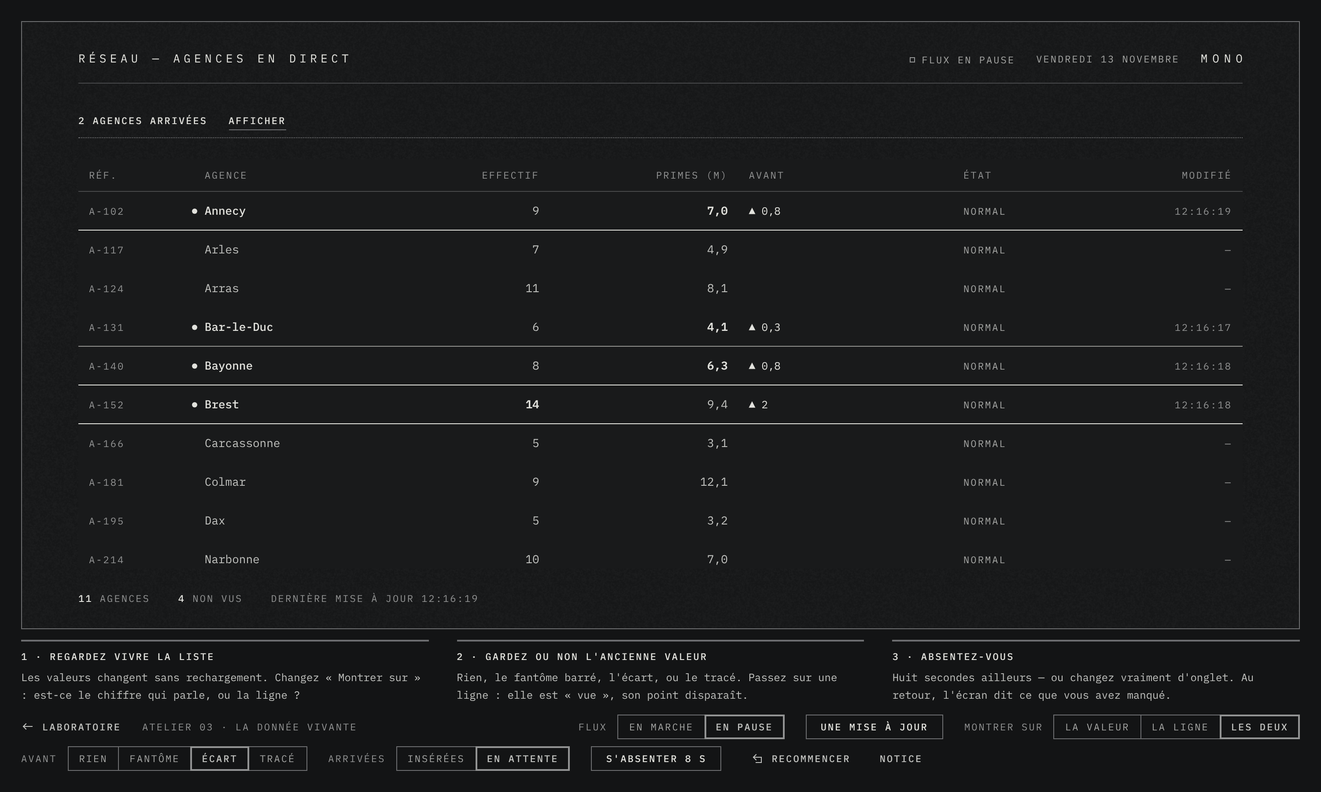
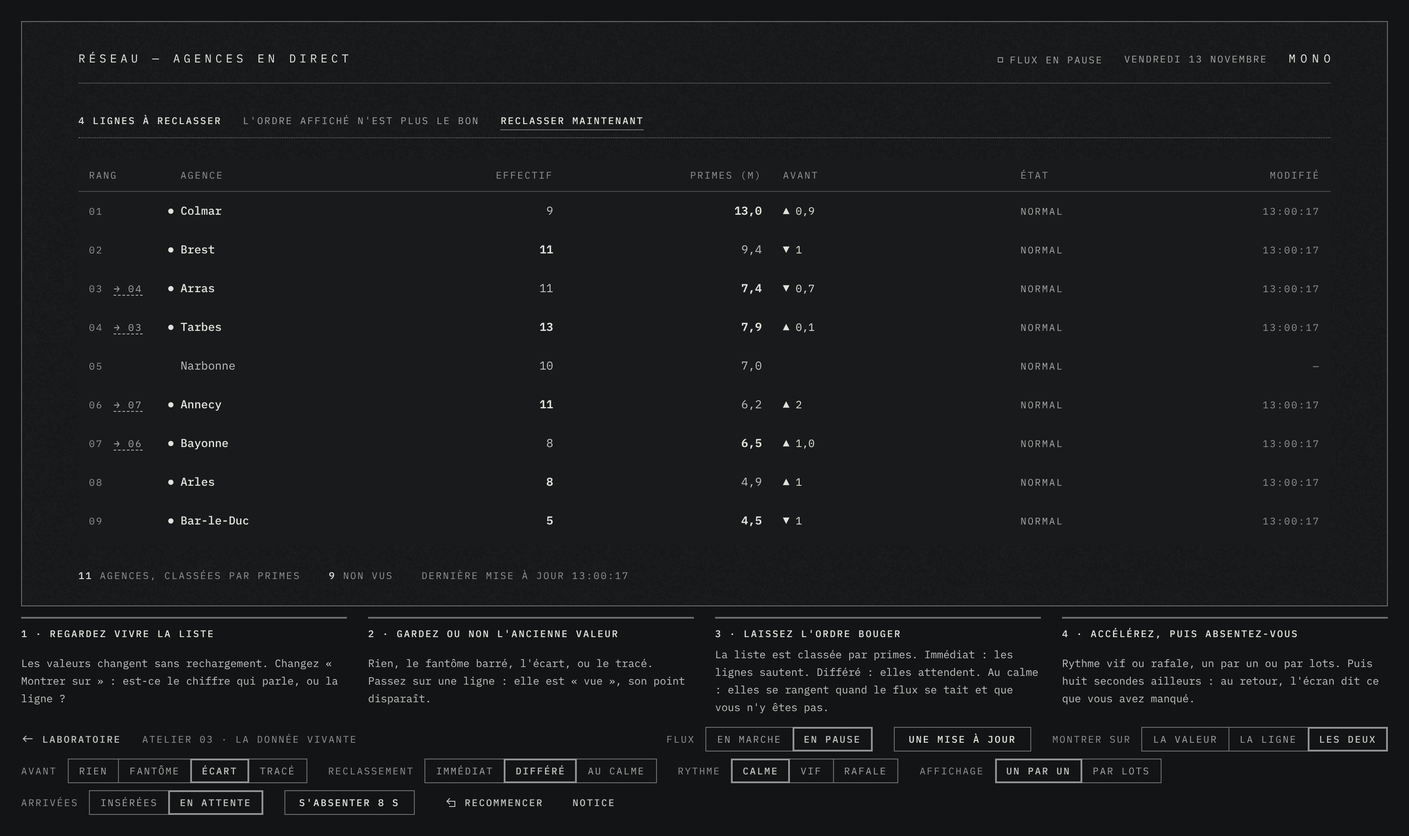
Laboratoire, expérience 03 : l'ordre et le rythme (D-101)
Reclassement immédiat, différé ou au calme ; rang à venir et mouvement de rang ;
cadences vive et en rafale ; affichage par lots, écart cumulé depuis la dernière
vue, soulignement limité.

Claude-Session: https://claude.ai/code/session_01Jzhjh4Bm92CMpkoPPaRiQr

diff --git a/catalogue/assets/labo.js b/catalogue/assets/labo.js
@@ -103,46 +103,75 @@
 
   // ===== Expérience 03 — la donnée vivante ===================================
   (() => { const stage = document.getElementById('x3'); if (!stage) return;
-    const box = $('.x-live', stage), body = $('tbody', stage), read = $('.x-read', stage), pulse = $('.x-pulse', stage), arrive = $('[data-arrive]', stage), back = $('[data-back]', stage), away = $('.x-away', stage), title0 = document.title;
-    const fr = (v) => v.toFixed(1).replace('.', ','), hms = () => new Date().toLocaleTimeString('fr-FR'), ST = ['Normal', 'À surveiller', 'Bloqué'];
+    const box = $('.x-live', stage), body = $('tbody', stage), read = $('.x-read', stage), pulse = $('.x-pulse', stage), arrive = $('[data-arrive]', stage), back = $('[data-back]', stage), reorderBar = $('[data-reorder]', stage), away = $('.x-away', stage), title0 = document.title;
+    const fr = (v) => v.toFixed(1).replace('.', ','), hms = () => new Date().toLocaleTimeString('fr-FR'), ST = ['Normal', 'À surveiller', 'Bloqué'], cfg = (k) => stage.dataset[k];
     const SEED = [['A-102', 'Annecy', 9, 6.2], ['A-117', 'Arles', 7, 4.9], ['A-124', 'Arras', 11, 8.1], ['A-131', 'Bar-le-Duc', 6, 3.8], ['A-140', 'Bayonne', 8, 5.5], ['A-152', 'Brest', 12, 9.4], ['A-166', 'Carcassonne', 5, 3.1], ['A-181', 'Colmar', 9, 12.1], ['A-195', 'Dax', 5, 3.2], ['A-214', 'Narbonne', 10, 7.0], ['A-226', 'Tarbes', 14, 7.8]];
     const POOL = [['A-262', 'Vizille', 4, 2.4], ['A-270', 'Valence', 8, 5.9], ['A-281', 'Vannes', 6, 4.4], ['A-290', 'Lorient', 7, 5.1], ['A-298', 'Chartres', 9, 6.6]];
-    let rows = [], queue = [], timer = null, gone = false, awayCount = { v: 0, n: 0 }, last = null, pool = [];
+    let rows = [], queue = [], timer = null, flushTimer = null, calm = null, gone = false, awayCount = { v: 0, n: 0 }, last = null, pool = [], dirty = new Map(), hover = false, lot = '';
     const digits = (el, txt, dir) => { const old = el.textContent; el.innerHTML = [...txt].map((c, i) => `<span${dir && !still && c !== old.padStart(txt.length, ' ')[i] ? ` style="animation: x-${dir} 260ms ease-out 1 both"` : ''}>${c}</span>`).join(''); };
     const spark = (h) => { const lo = Math.min(...h), hi = Math.max(...h), W = 72, H = 14, pts = h.map((v, i) => [i * W / Math.max(1, h.length - 1), H - (hi === lo ? H / 2 : (v - lo) / (hi - lo) * H)]); const [x, y] = pts.at(-1);
       return `<svg width="${W + 4}" height="${H + 4}" viewBox="-2 -2 ${W + 4} ${H + 4}" aria-hidden="true"><polyline points="${pts.map((p) => p.join(',')).join(' ')}"></polyline><rect x="${x - 1.5}" y="${y - 1.5}" width="3" height="3"></rect></svg>`; };
-    // Ce que l'on garde de l'ancienne valeur : rien, le fantôme (barré, un temps), l'écart (sens et montant), ou le tracé.
-    const evo = (r) => { const m = stage.dataset.before, c = r.change; const td = $('.x-evo', r.tr); if (m === 'trace') { td.innerHTML = spark(r.hist); return; } if (!c || m === 'rien') { td.innerHTML = ''; return; }
-      const d = c.now - c.old; td.innerHTML = m === 'fantome' ? `<s>${c.txt}</s>` : `<span class="d">${d > 0 ? '▲' : '▼'} ${c.f === 'pr' ? fr(Math.abs(d)) : Math.abs(d)}</span>`;
-      clearTimeout(r.ghost); if (m === 'fantome') r.ghost = setTimeout(() => { if (stage.dataset.before === 'fantome') td.innerHTML = ''; }, 9000); };
-    const make = (d, isNew) => { const r = { ref: d[0], name: d[1], eff: d[2], pr: d[3], st: 0, hist: [d[3]], change: null }; const tr = document.createElement('tr'); r.tr = tr;
-      tr.innerHTML = `<td class="ref">${r.ref}</td><td class="nm"><span>${r.name}</span></td><td class="n"><span class="x-num" data-f="eff"></span></td><td class="n"><span class="x-num" data-f="pr"></span></td><td class="x-evo"></td><td class="st" data-st="0">${ST[0]}</td><td class="t n">${isNew ? hms() : '—'}</td>`;
-      digits($('[data-f="eff"]', tr), String(r.eff)); digits($('[data-f="pr"]', tr), fr(r.pr)); tr.addEventListener('pointerenter', () => { tr.classList.remove('is-unseen', 'is-since'); report(); }); if (isNew) tr.classList.add('is-new', 'is-unseen'); if (stage.dataset.before === 'trace') $('.x-evo', tr).innerHTML = spark(r.hist); return r; };
-    const report = () => { const u = rows.filter((r) => r.tr.classList.contains('is-unseen')).length; read.innerHTML = `<span><b>${rows.length}</b> agences</span><span><b>${u}</b> non vu${u > 1 ? 's' : ''}</span><span>Dernière mise à jour ${last || '—'}</span>`;
+    // Ce que l'on garde de l'ancienne valeur : rien, le fantôme (barré, un temps), l'écart, ou le tracé.
+    // L'écart est CUMULÉ depuis la dernière fois que la ligne a été vue : dix sauts rapides se lisent comme un seul.
+    const evo = (r) => { const m = cfg('before'), td = $('.x-evo', r.tr); if (m === 'trace') { td.innerHTML = spark(r.hist); return; } const f = r.lastF, d = f ? +(r[f] - r.base[f]).toFixed(1) : 0; if (!f || !d || m === 'rien') { td.innerHTML = ''; return; }
+      td.innerHTML = m === 'fantome' ? `<s>${f === 'pr' ? fr(r.base[f]) : r.base[f]}</s>` : `<span class="d">${d > 0 ? '▲' : '▼'} ${f === 'pr' ? fr(Math.abs(d)) : Math.abs(d)}</span>`;
+      clearTimeout(r.ghost); if (m === 'fantome') r.ghost = setTimeout(() => { if (cfg('before') === 'fantome') td.innerHTML = ''; }, 9000); };
+    const seen = (r) => { r.tr.classList.remove('is-unseen', 'is-since'); r.base = { eff: r.eff, pr: r.pr }; r.lastF = null; r.seenRank = rows.indexOf(r); evo(r); rank(); };
+    const make = (d, isNew) => { const r = { ref: d[0], name: d[1], eff: d[2], pr: d[3], st: 0, hist: [d[3]], base: { eff: d[2], pr: d[3] }, lastF: null, seenRank: null, touched: 0 }; const tr = document.createElement('tr'); r.tr = tr;
+      tr.innerHTML = `<td class="rk"><span class="x-rk"></span><span class="x-mv"></span></td><td class="nm"><span>${r.name}</span></td><td class="n"><span class="x-num" data-f="eff"></span></td><td class="n"><span class="x-num" data-f="pr"></span></td><td class="x-evo"></td><td class="st" data-st="0">${ST[0]}</td><td class="t n">${isNew ? hms() : '—'}</td>`;
+      digits($('[data-f="eff"]', tr), String(r.eff)); digits($('[data-f="pr"]', tr), fr(r.pr)); tr.addEventListener('pointerenter', () => { seen(r); report(); }); if (isNew) tr.classList.add('is-new', 'is-unseen'); if (cfg('before') === 'trace') $('.x-evo', tr).innerHTML = spark(r.hist); return r; };
+    // ---- L'ordre. La liste est classée par primes. `rows` est l'ordre AFFICHÉ ; l'ordre juste se calcule.
+    const sorted = () => rows.slice().sort((a, b) => b.pr - a.pr || a.name.localeCompare(b.name, 'fr'));
+    // Le rang et son mouvement. Reclassé : ▲2 depuis la dernière fois qu'on a vu la ligne. En attente : « → 3 », la place qu'elle prendra.
+    const rank = () => { const want = sorted(); let pending = 0; rows.forEach((r, i) => { const w = want.indexOf(r), mv = $('.x-mv', r.tr); $('.x-rk', r.tr).textContent = String(i + 1).padStart(2, '0');
+      if (w !== i) { pending++; mv.textContent = `→ ${String(w + 1).padStart(2, '0')}`; mv.className = 'x-mv is-pending'; }
+      else if (r.seenRank != null && r.seenRank !== i) { const d = r.seenRank - i; mv.textContent = `${d > 0 ? '▲' : '▼'} ${Math.abs(d)}`; mv.className = 'x-mv'; }
+      else { mv.textContent = ''; mv.className = 'x-mv'; } });
+      reorderBar.hidden = !pending || cfg('order') === 'immediat'; if (pending) { $('b', reorderBar).textContent = `${pending} ligne${pending > 1 ? 's' : ''} à reclasser`; $('span', reorderBar).textContent = cfg('order') === 'calme' ? (hover ? 'Le pointeur est sur la liste : rien ne bouge' : 'Reclassement à la prochaine accalmie') : 'L\'ordre affiché n\'est plus le bon'; $('button', reorderBar).hidden = false; }
+      return pending; };
+    // Reclasser : chaque ligne glisse de sa place à la nouvelle, en un seul mouvement pour tout le lot.
+    const reorder = () => { const want = sorted(); if (want.every((r, i) => r === rows[i])) return; const before = new Map(rows.map((r) => [r, r.tr.getBoundingClientRect().top]));
+      rows.forEach((r, i) => { if (r.seenRank == null) r.seenRank = i; }); rows = want; rows.forEach((r) => body.append(r.tr));
+      if (!still) rows.forEach((r) => { const dy = before.get(r) - r.tr.getBoundingClientRect().top; if (dy) { r.tr.style.position = 'relative'; r.tr.style.zIndex = dy > 0 ? 2 : 1; r.tr.animate([{ transform: `translateY(${dy}px)` }, { transform: 'none' }], { duration: 420, easing: 'cubic-bezier(.2, .8, .2, 1)' }).onfinish = () => { r.tr.style.zIndex = ''; }; } });
+      rows.forEach((r, i) => { if (r.seenRank !== i) r.tr.classList.add('is-unseen'); }); rank(); report(); };
+    const settle = () => { const m = cfg('order'); clearTimeout(calm); if (m === 'immediat') reorder(); else { rank(); if (m === 'calme') calm = setTimeout(() => { if (hover) settle(); else reorder(); }, 2600); } };
+    const report = () => { const u = rows.filter((r) => r.tr.classList.contains('is-unseen')).length; read.innerHTML = `<span><b>${rows.length}</b> agences, classées par primes</span><span><b>${u}</b> non vu${u > 1 ? 's' : ''}</span><span>Dernière mise à jour ${last || '—'}</span>${lot ? `<span>${lot}</span>` : ''}`;
       arrive.hidden = !queue.length; if (queue.length) $('b', arrive).textContent = `${queue.length} agence${queue.length > 1 ? 's' : ''} arrivée${queue.length > 1 ? 's' : ''}`;
       document.title = gone && (awayCount.v + awayCount.n) ? `(${awayCount.v + awayCount.n}) ${title0}` : title0; };
-    const insert = (list) => { const h0 = box.scrollHeight, top = box.scrollTop; list.forEach((r) => { body.prepend(r.tr); rows.unshift(r); }); if (top > 4) box.scrollTop = top + box.scrollHeight - h0; };   // on ne fait pas sauter ce qu'on lit
-    const touch = (r) => { const tr = r.tr; tr.classList.remove('is-touched'); void tr.offsetWidth; tr.classList.add('is-touched', 'is-unseen'); if (gone) tr.classList.add('is-since'); $('.t', tr).textContent = hms(); };
-    const update = () => { last = hms(); pulse.classList.remove('is-beat'); void pulse.offsetWidth; pulse.classList.add('is-beat'); const k = Math.random();
-      if (k < 0.14 && pool.length) { const r = make(pool.shift(), true); if (gone) { awayCount.n++; r.tr.classList.add('is-since'); } if (stage.dataset.arrivals === 'attente') queue.push(r); else insert([r]); report(); return; }
-      const r = rows[Math.floor(Math.random() * rows.length)]; if (!r) return;
-      if (k < 0.24) { const st = (r.st + 1 + Math.floor(Math.random() * 2)) % 3, td = $('.st', r.tr); r.st = st; td.dataset.st = st; td.textContent = ST[st]; r.change = null; }
-      else { const f = k < 0.45 ? 'eff' : 'pr', old = r[f], now = f === 'eff' ? Math.max(1, old + (Math.random() < 0.5 ? -1 : 1) * (1 + Math.floor(Math.random() * 2))) : Math.max(0.5, +(old + (Math.random() - 0.45) * 1.6).toFixed(1)); if (now === old) return;
-        r[f] = now; r.change = { f, old, now, txt: f === 'pr' ? fr(old) : String(old) }; if (f === 'pr') { r.hist.push(now); if (r.hist.length > 10) r.hist.shift(); }
-        const el = $(`[data-f="${f}"]`, r.tr); digits(el, f === 'pr' ? fr(now) : String(now), ['valeur', 'deux'].includes(stage.dataset.where) ? (now > old ? 'up' : 'down') : null); el.classList.remove('is-fresh'); void el.offsetWidth; el.classList.add('is-fresh'); evo(r); }
-      touch(r); if (gone) awayCount.v++; report(); };
-    const run = () => { clearInterval(timer); const on = stage.dataset.flow === 'marche'; pulse.classList.toggle('is-off', !on); pulse.lastChild.textContent = on ? 'En direct' : 'Flux en pause'; if (on) timer = setInterval(update, 2600); };
+    const insert = (list) => { const h0 = box.scrollHeight, top = box.scrollTop; list.forEach((r) => { body.prepend(r.tr); rows.unshift(r); }); if (top > 4) box.scrollTop = top + box.scrollHeight - h0; settle(); };   // on ne fait pas sauter ce qu'on lit
+    // ---- Une mise à jour se fait en deux temps : le modèle change (mutate), puis l'écran le montre (paint).
+    // « Par lots » sépare les deux : les changements d'une fenêtre de temps sont montrés en une fois.
+    const mutate = () => { last = hms(); const k = Math.random();
+      if (k < 0.1 && pool.length) { const r = make(pool.shift(), true); if (gone) { awayCount.n++; r.tr.classList.add('is-since'); } if (cfg('arrivals') === 'attente') queue.push(r); else insert([r]); return; }
+      const r = rows[Math.floor(Math.random() * rows.length)]; if (!r) return; const d = dirty.get(r) || { was: { eff: r.eff, pr: r.pr } };
+      if (k < 0.18) { r.st = (r.st + 1 + Math.floor(Math.random() * 2)) % 3; d.st = true; }
+      else { const f = k < 0.36 ? 'eff' : 'pr', old = r[f], now = f === 'eff' ? Math.max(1, old + (Math.random() < 0.5 ? -1 : 1) * (1 + Math.floor(Math.random() * 2))) : Math.max(0.5, +(old + (Math.random() - 0.47) * 2.2).toFixed(1)); if (now === old) return; r[f] = now; r.lastF = f; d[f] = true; if (f === 'pr') { r.hist.push(now); if (r.hist.length > 10) r.hist.shift(); } }
+      dirty.set(r, d); if (gone) awayCount.v++; };
+    const paint = () => { if (!dirty.size) { report(); return; } const n = dirty.size, t = performance.now(); pulse.classList.remove('is-beat'); void pulse.offsetWidth; pulse.classList.add('is-beat');
+      dirty.forEach((d, r) => { const tr = r.tr, roll = ['valeur', 'deux'].includes(cfg('where'));
+        ['eff', 'pr'].forEach((f) => { if (!d[f]) return; const el = $(`[data-f="${f}"]`, tr); digits(el, f === 'pr' ? fr(r[f]) : String(r[f]), roll ? (r[f] > d.was[f] ? 'up' : 'down') : null); el.classList.remove('is-fresh'); void el.offsetWidth; el.classList.add('is-fresh'); });
+        if (d.st) { const td = $('.st', tr); td.dataset.st = r.st; td.textContent = ST[r.st]; }
+        // Une ligne qui vient d'être soulignée ne l'est pas de nouveau avant deux secondes : le rythme du flux n'est pas celui de l'œil.
+        if (t - r.touched > 2000) { tr.classList.remove('is-touched'); void tr.offsetWidth; tr.classList.add('is-touched'); r.touched = t; }
+        tr.classList.add('is-unseen'); if (gone) tr.classList.add('is-since'); $('.t', tr).textContent = hms(); evo(r); });
+      dirty.clear(); const p0 = rank(); settle(); lot = cfg('batch') === 'lots' ? `Dernier lot : ${n} ligne${n > 1 ? 's' : ''}${p0 ? `, ${p0} à reclasser` : ''}` : ''; report(); };
+    const tick = () => { const burst = cfg('pace') === 'rafale' ? 6 : 1; for (let i = 0; i < burst; i++) mutate(); if (cfg('batch') !== 'lots') paint(); else report(); };
+    const run = () => { clearInterval(timer); clearInterval(flushTimer); const on = cfg('flow') === 'marche'; pulse.classList.toggle('is-off', !on); pulse.lastChild.textContent = on ? 'En direct' : 'Flux en pause'; if (!on) { paint(); return; }
+      timer = setInterval(tick, { calme: 2600, vif: 420, rafale: 2200 }[cfg('pace')]); if (cfg('batch') === 'lots') flushTimer = setInterval(paint, 1800); };
     const leave = () => { if (gone) return; gone = true; awayCount = { v: 0, n: 0 }; back.hidden = true; };
-    const ret = () => { if (!gone) return; gone = false; const { v, n } = awayCount; if (v + n) { back.hidden = false; $('b', back).textContent = `${v} valeur${v > 1 ? 's' : ''} ${v > 1 ? 'ont' : 'a'} changé` + (n ? ` · ${n} agence${n > 1 ? 's' : ''} arrivée${n > 1 ? 's' : ''}` : ''); } report(); };
-    const reset = () => { body.innerHTML = ''; rows = []; queue = []; pool = POOL.slice(); SEED.forEach((d) => { const r = make(d); body.append(r.tr); rows.push(r); }); back.hidden = true; last = null; report(); run(); };
-    $('[data-show]', arrive).addEventListener('click', () => { insert(queue.reverse()); queue = []; report(); });
+    const ret = () => { if (!gone) return; gone = false; const { v, n } = awayCount; if (v + n) { back.hidden = false; $('b', back).textContent = `${v} changement${v > 1 ? 's' : ''} de valeur` + (n ? ` · ${n} agence${n > 1 ? 's' : ''} arrivée${n > 1 ? 's' : ''}` : ''); } report(); };
+    const reset = () => { body.innerHTML = ''; rows = []; queue = []; dirty.clear(); lot = ''; pool = POOL.slice(); SEED.slice().sort((a, b) => b[3] - a[3]).forEach((d) => { const r = make(d); body.append(r.tr); rows.push(r); }); rows.forEach((r, i) => (r.seenRank = i)); back.hidden = true; last = null; rank(); report(); run(); };
+    box.addEventListener('pointerenter', () => { hover = true; rank(); }); box.addEventListener('pointerleave', () => { hover = false; rank(); });
+    $('button', reorderBar).addEventListener('click', reorder);
+    $('[data-show]', arrive).addEventListener('click', () => { const q = queue.reverse(); queue = []; insert(q); report(); });
     $('[data-first]', back).addEventListener('click', () => { $('.is-since', body)?.scrollIntoView({ block: 'center' }); });
-    $('[data-seen]', back).addEventListener('click', () => { $$('tr', body).forEach((tr) => tr.classList.remove('is-unseen', 'is-since')); back.hidden = true; report(); });
-    $('[data-once]', stage).addEventListener('click', update);
+    $('[data-seen]', back).addEventListener('click', () => { rows.forEach(seen); back.hidden = true; report(); });
+    $('[data-once]', stage).addEventListener('click', () => { tick(); if (cfg('batch') === 'lots') paint(); });
     $('[data-restart]', stage).addEventListener('click', reset);
-    $('[data-leave]', stage).addEventListener('click', () => { leave(); away.hidden = false; let s = 8; const out = $('small', away); out.textContent = `Retour dans ${s} s`; const fast = setInterval(update, 900);
-      const t = setInterval(() => { s--; out.textContent = `Retour dans ${s} s`; if (s <= 0) { clearInterval(t); clearInterval(fast); away.hidden = true; ret(); } }, 1000); });
+    $('[data-leave]', stage).addEventListener('click', () => { leave(); away.hidden = false; let s = 8; const out = $('small', away); out.textContent = `Retour dans ${s} s`; const fast = setInterval(tick, 900);
+      const t = setInterval(() => { s--; out.textContent = `Retour dans ${s} s`; if (s <= 0) { clearInterval(t); clearInterval(fast); away.hidden = true; paint(); ret(); } }, 1000); });
     document.addEventListener('visibilitychange', () => (document.hidden ? leave() : ret()));   // le vrai départ : changer d'onglet
-    seg(stage, 'flow', run); seg(stage, 'where'); seg(stage, 'before', () => rows.forEach(evo)); seg(stage, 'arrivals', () => { if (stage.dataset.arrivals === 'inserees' && queue.length) { insert(queue.reverse()); queue = []; } report(); });
+    seg(stage, 'flow', run); seg(stage, 'pace', run); seg(stage, 'batch', run); seg(stage, 'where'); seg(stage, 'before', () => rows.forEach(evo)); seg(stage, 'order', settle);
+    seg(stage, 'arrivals', () => { if (cfg('arrivals') === 'inserees' && queue.length) { const q = queue.reverse(); queue = []; insert(q); } report(); });
     reset(); })();
 })();

diff --git a/catalogue/laboratoire.html b/catalogue/laboratoire.html
@@ -69,7 +69,7 @@
 
         <section class="cat-section" id="donnee-vivante" data-search="rubrique">
           <h2 class="c-section-head"><span class="c-section-head__num">03</span><span>La donnée vivante</span><span class="c-section-head__aside">Expérience en cours</span></h2>
-          <p><span class="t-strong">Les questions.</span> Une liste se met à jour sous nos yeux, sans rechargement : des valeurs changent, des lignes arrivent. Comment dire qu'une valeur vient de changer ? Faut-il garder l'ancienne ? Est-ce le chiffre qui doit parler, ou la ligne qui le porte ? Et que retrouve-t-on quand on n'était pas là ?</p>
+          <p><span class="t-strong">Les questions.</span> Une liste se met à jour sous nos yeux, sans rechargement : des valeurs changent, des lignes arrivent. Comment dire qu'une valeur vient de changer ? Faut-il garder l'ancienne ? Est-ce le chiffre qui doit parler, ou la ligne qui le porte ? Dans une liste classée, faut-il reclasser, et quand ? Que faire quand tout change vite, partout à la fois ? Et que retrouve-t-on quand on n'était pas là ?</p>
           <p><a class="c-button x-open" href="laboratoire/donnee-vivante.html">Ouvrir l'atelier<i class="c-icon i-arrow-right" aria-hidden="true"></i></a> <span class="x-note">Plein écran, hors du catalogue : une liste d'agences alimentée par un flux simulé.</span></p>
 
           <dl class="x-research">
@@ -78,8 +78,11 @@
             <dt>Garder l'ancienne valeur</dt><dd>Quatre réponses. <span class="t-strong">Rien</span>. <span class="t-strong">Le fantôme</span> : l'ancienne valeur, barrée, neuf secondes. <span class="t-strong">L'écart</span> : le sens et le montant (▲ 0,4), qui reste tant que la ligne n'est pas vue. <span class="t-strong">Le tracé</span> : les dix dernières valeurs en un trait. Mon hypothèse : l'écart est le meilleur compromis — il dit l'évolution sans demander de soustraire ; le tracé convient quand la tendance compte plus que le dernier saut.</dd>
             <dt>Vu, pas vu</dt><dd>Un changement que personne n'a regardé n'est pas réglé. Chaque ligne modifiée garde le point du non-lu jusqu'à ce que le pointeur passe dessus ; la ligne d'état compte ce qui reste.</dd>
             <dt>Les arrivées</dt><dd>Une ligne qui s'insère fait descendre ce qu'on lisait. « En attente » les retient derrière une ligne — « 2 agences arrivées · Afficher » — et c'est le lecteur qui décide. « Insérées » les pose tout de suite, en gardant la position de lecture si l'on avait fait défiler.</dd>
+            <dt>L'ordre, dans une liste classée</dt><dd>La liste est classée par primes ; une valeur qui change peut donc changer de place. Trois réponses. <span class="t-strong">Immédiat</span> : la ligne glisse aussitôt à son rang — juste, mais elle bouge sous le pointeur et sous les yeux. <span class="t-strong">Différé</span> : l'ordre affiché ne bouge pas ; chaque ligne mal placée dit où elle ira (« → 06 », en tireté) et une ligne en tête propose « Reclasser maintenant ». <span class="t-strong">Au calme</span> : comme différé, mais la liste se range seule quand le flux se tait deux secondes et que le pointeur n'est pas sur elle. Les forums de bibliothèques de tableaux sont pleins de la même plainte — <a href="https://datatables.net/forums/discussion/51120/disable-auto-sort-on-datatable-when-data-is-updated">« empêcher le tri automatique à la mise à jour »</a> — et la parade courante est bien de différer. Mon hypothèse : « au calme » est le bon défaut ; rien ne doit bouger sous un pointeur.</dd>
+            <dt>Montrer le reclassement</dt><dd>Les lignes glissent d'un seul mouvement, toutes ensemble, de leur place à la nouvelle. Ensuite le rang garde la trace : « ▲ 2 » dit de combien la ligne a monté depuis qu'on l'a vue. Avant le reclassement, « → 06 » annonce la place à venir.</dd>
+            <dt>Quand tout change vite, partout</dt><dd>Le rythme du flux n'est pas celui de l'œil. Quatre garde-fous, à essayer avec « Vif » et « Rafale ». <span class="t-strong">Par lots</span> : ce qui arrive en moins de deux secondes s'affiche en une fois — un seul mouvement, un seul reclassement, et la ligne d'état dit la taille du lot. <span class="t-strong">L'écart cumulé</span> : dix sauts d'une même valeur se lisent comme un seul écart, compté depuis la dernière fois que la ligne a été vue. <span class="t-strong">Le soulignement limité</span> : une ligne n'est pas soulignée deux fois en deux secondes. <span class="t-strong">Un reclassement à la fois</span> : jamais deux glissements qui se chevauchent. Je n'ai pas trouvé de source qui chiffre un rythme acceptable ; les seuils retenus sont des choix.</dd>
             <dt>Quand on n'est pas là</dt><dd>Trois temps. <span class="t-strong">Pendant</span> : le titre de l'onglet porte le décompte — « (5) Agences en direct » —, seul repère visible partout ; la pastille d'application n'existe que pour une <a href="https://developer.mozilla.org/en-US/docs/Web/Progressive_web_apps/How_to/Display_badge_on_app_icon">application installée</a>, et il ne faut pas s'y fier seule. <span class="t-strong">Au retour</span> : une ligne résume — « 5 valeurs ont changé, 1 agence arrivée » — avec « Voir le premier ». <span class="t-strong">Ensuite</span> : ce qui a changé pendant l'absence porte un repère pointillé, distinct du simple non-vu. L'absence est détectée pour de bon (<a href="https://developer.mozilla.org/en-US/docs/Web/API/Page_Visibility_API">changement d'onglet</a>) ; le bouton la simule.</dd>
-            <dt>Ce qu'on regarde</dt><dd>Retrouve-t-on plus vite ce qui a changé avec la ligne, la valeur, les deux ? L'écart suffit-il, ou regrette-t-on l'ancienne valeur ? À quel rythme de flux tout cela devient-il du bruit ? Le résumé du retour dispense-t-il de parcourir la liste ?</dd>
+            <dt>Ce qu'on regarde</dt><dd>Retrouve-t-on plus vite ce qui a changé avec la ligne, la valeur, les deux ? L'écart suffit-il, ou regrette-t-on l'ancienne valeur ? Le reclassement « au calme » arrive-t-il trop tard, ou assez tôt ? « Par lots » fait-il perdre le sentiment du direct ? À quel rythme tout cela devient-il du bruit ? Le résumé du retour dispense-t-il de parcourir la liste ?</dd>
             <dt>Garde-fous</dt><dd>Aucune couleur ajoutée : seul un état « bloqué » porte le signal, comme dans le système. Rien ne se déplace sans que le lecteur le demande. Avec « réduire les animations », les chiffres ne roulent pas et le filet n'apparaît pas ; les marques restent.</dd>
             <dt>Règle enfreinte</dt><dd>Aucune. Cette expérience pourrait entrer dans le système telle quelle, si elle convainc.</dd>
           </dl>

diff --git a/catalogue/laboratoire/donnee-vivante.html b/catalogue/laboratoire/donnee-vivante.html
@@ -9,27 +9,29 @@
   <script src="../assets/prefs.js"></script>
 </head>
 <body class="l-desk x-atelier">
-  <div class="x-stage" id="x3" data-flow="marche" data-where="deux" data-before="ecart" data-arrivals="attente">
+  <div class="x-stage" id="x3" data-flow="marche" data-where="deux" data-before="ecart" data-arrivals="attente" data-order="calme" data-pace="calme" data-batch="un">
     <div class="l-shell x-screen">
       <header class="c-masthead">
         <div class="c-masthead__title">Réseau — Agences en direct</div>
         <div class="c-masthead__meta"><span class="x-pulse" aria-live="off">En direct</span><span>Vendredi 13 novembre</span><span class="c-logo c-logo--plain">Mono</span></div>
       </header>
       <div class="x-banner" data-back hidden aria-live="polite"><span>Pendant votre absence</span><b></b><button type="button" data-first>Voir le premier</button><button type="button" data-seen>Tout marquer vu</button></div>
+      <div class="x-banner" data-reorder hidden aria-live="polite"><b></b><span></span><button type="button">Reclasser maintenant</button></div>
       <div class="x-banner" data-arrive hidden aria-live="polite"><b></b><button type="button" data-show>Afficher</button></div>
       <div class="x-live" tabindex="0" aria-label="Agences — faire défiler">
         <table>
-          <thead><tr><th>Réf.</th><th>Agence</th><th class="n">Effectif</th><th class="n">Primes (M)</th><th>Avant</th><th>État</th><th class="n">Modifié</th></tr></thead>
+          <thead><tr><th>Rang</th><th>Agence</th><th class="n">Effectif</th><th class="n">Primes (M)</th><th>Avant</th><th>État</th><th class="n">Modifié</th></tr></thead>
           <tbody></tbody>
         </table>
       </div>
       <div class="x-read" aria-live="polite"></div>
       <div class="x-away" hidden><span>Vous êtes ailleurs</span><small></small></div>
     </div>
-    <ol class="x-steps">
+    <ol class="x-steps x-steps--4">
       <li class="is-on"><b>1 · Regardez vivre la liste</b>Les valeurs changent sans rechargement. Changez « Montrer sur » : est-ce le chiffre qui parle, ou la ligne ?</li>
       <li class="is-on"><b>2 · Gardez ou non l'ancienne valeur</b>Rien, le fantôme barré, l'écart, ou le tracé. Passez sur une ligne : elle est « vue », son point disparaît.</li>
-      <li class="is-on"><b>3 · Absentez-vous</b>Huit secondes ailleurs — ou changez vraiment d'onglet. Au retour, l'écran dit ce que vous avez manqué.</li>
+      <li class="is-on"><b>3 · Laissez l'ordre bouger</b>La liste est classée par primes. Immédiat : les lignes sautent. Différé : elles attendent. Au calme : elles se rangent quand le flux se tait et que vous n'y êtes pas.</li>
+      <li class="is-on"><b>4 · Accélérez, puis absentez-vous</b>Rythme vif ou rafale, un par un ou par lots. Puis huit secondes ailleurs : au retour, l'écran dit ce que vous avez manqué.</li>
     </ol>
     <footer class="x-strip">
       <a class="x-strip__back" href="../laboratoire.html#donnee-vivante"><i class="c-icon i-arrow-left" aria-hidden="true"></i>Laboratoire</a>
@@ -38,6 +40,9 @@
       <button class="c-button" type="button" data-once>Une mise à jour</button>
       <span class="x-bar__group"><span class="x-bar__label">Montrer sur</span><span class="c-segmented" role="group" aria-label="Montrer sur"><button class="c-segmented__item" type="button" data-set-where="valeur" aria-pressed="false">La valeur</button><button class="c-segmented__item" type="button" data-set-where="ligne" aria-pressed="false">La ligne</button><button class="c-segmented__item" type="button" data-set-where="deux" aria-pressed="true">Les deux</button></span></span>
       <span class="x-bar__group"><span class="x-bar__label">Avant</span><span class="c-segmented" role="group" aria-label="Ancienne valeur"><button class="c-segmented__item" type="button" data-set-before="rien" aria-pressed="false">Rien</button><button class="c-segmented__item" type="button" data-set-before="fantome" aria-pressed="false">Fantôme</button><button class="c-segmented__item" type="button" data-set-before="ecart" aria-pressed="true">Écart</button><button class="c-segmented__item" type="button" data-set-before="trace" aria-pressed="false">Tracé</button></span></span>
+      <span class="x-bar__group"><span class="x-bar__label">Reclassement</span><span class="c-segmented" role="group" aria-label="Reclassement"><button class="c-segmented__item" type="button" data-set-order="immediat" aria-pressed="false">Immédiat</button><button class="c-segmented__item" type="button" data-set-order="differe" aria-pressed="false">Différé</button><button class="c-segmented__item" type="button" data-set-order="calme" aria-pressed="true">Au calme</button></span></span>
+      <span class="x-bar__group"><span class="x-bar__label">Rythme</span><span class="c-segmented" role="group" aria-label="Rythme"><button class="c-segmented__item" type="button" data-set-pace="calme" aria-pressed="true">Calme</button><button class="c-segmented__item" type="button" data-set-pace="vif" aria-pressed="false">Vif</button><button class="c-segmented__item" type="button" data-set-pace="rafale" aria-pressed="false">Rafale</button></span></span>
+      <span class="x-bar__group"><span class="x-bar__label">Affichage</span><span class="c-segmented" role="group" aria-label="Affichage"><button class="c-segmented__item" type="button" data-set-batch="un" aria-pressed="true">Un par un</button><button class="c-segmented__item" type="button" data-set-batch="lots" aria-pressed="false">Par lots</button></span></span>
       <span class="x-bar__group"><span class="x-bar__label">Arrivées</span><span class="c-segmented" role="group" aria-label="Arrivées"><button class="c-segmented__item" type="button" data-set-arrivals="inserees" aria-pressed="false">Insérées</button><button class="c-segmented__item" type="button" data-set-arrivals="attente" aria-pressed="true">En attente</button></span></span>
       <button class="c-button" type="button" data-leave>S'absenter 8 s</button>
       <button class="c-button c-button--quiet" type="button" data-restart><i class="c-icon i-undo" aria-hidden="true"></i>Recommencer</button>

diff --git a/catalogue/assets/search-index.js b/catalogue/assets/search-index.js
@@ -205,7 +205,7 @@ window.MonoSearchIndex = {"pages":[["index.html","Présentation"],["fondations.h
 {"p":4,"id":"tendance","y":"rubrique","t":"Tendance","c":"","s":"","k":".c-section-head .c-section-head__aside .c-section-head__num .c-table","x":"Branche Douze mois Indice Non-vie 115 Marché 105 Vie 62 Une courbe sans axe ni chiffre, à la hauteur d'une ligne de texte. Elle donne l'allure ; la valeur est dans la colonne voisine."},
 {"p":5,"id":"mise-en-valeur","y":"rubrique","t":"La mise en valeur ordonnée","c":"","s":"","k":".c-button .c-icon .c-section-head .c-section-head__aside .c-section-head__num .t-strong","x":"L'hypothèse. Quand on arrive sur un écran, tout ce qui compte se présente en même temps, et l'œil choisit au hasard. Si l'on faisait l'inverse : ce qui compte se signale un instant, dans l'ordre de son importance — le critique d'abord, seul ; puis ce qui est à surveiller ; puis ce qui est rétabli — et retombe aussitôt en simple marque. Même chose quand on fait défiler : une ligne ne se signale qu'au moment où on la d"},
 {"p":5,"id":"geste-recompense","y":"rubrique","t":"Le geste récompensé","c":"","s":"","k":".c-button .c-icon .c-section-head .c-section-head__aside .c-section-head__num .t-strong","x":"L'hypothèse. Une interface sobre peut encore faire plaisir à manier. Chaque geste qui aboutit — cocher, appuyer, trier, saisir juste, envoyer, arriver au bout — reçoit en retour un petit mouvement net, plus généreux que le geste ne l'exige, mais bref, typographique et sans couleur. Et la récompense s'use : répétée, elle s'abrège, pour ne jamais devenir une attente. Ouvrir l'atelier Plein écran, hors du catalogue : do"},
-{"p":5,"id":"donnee-vivante","y":"rubrique","t":"La donnée vivante","c":"","s":"","k":".c-button .c-icon .c-section-head .c-section-head__aside .c-section-head__num .t-strong","x":"Les questions. Une liste se met à jour sous nos yeux, sans rechargement : des valeurs changent, des lignes arrivent. Comment dire qu'une valeur vient de changer ? Faut-il garder l'ancienne ? Est-ce le chiffre qui doit parler, ou la ligne qui le porte ? Et que retrouve-t-on quand on n'était pas là ? Ouvrir l'atelier Plein écran, hors du catalogue : une liste d'agences alimentée par un flux simulé. État de l'art On ne "},
+{"p":5,"id":"donnee-vivante","y":"rubrique","t":"La donnée vivante","c":"","s":"","k":".c-button .c-icon .c-section-head .c-section-head__aside .c-section-head__num .t-strong","x":"Les questions. Une liste se met à jour sous nos yeux, sans rechargement : des valeurs changent, des lignes arrivent. Comment dire qu'une valeur vient de changer ? Faut-il garder l'ancienne ? Est-ce le chiffre qui doit parler, ou la ligne qui le porte ? Dans une liste classée, faut-il reclasser, et quand ? Que faire quand tout change vite, partout à la fois ? Et que retrouve-t-on quand on n'était pas là ? Ouvrir l'ate"},
 {"p":1,"id":"tons","y":"token","t":"--tone-0","c":"","s":"Tons","k":"--tone-0","x":"#131415"},
 {"p":1,"id":"tons","y":"token","t":"--tone-1","c":"","s":"Tons","k":"--tone-1","x":"#191a1b"},
 {"p":1,"id":"tons","y":"token","t":"--tone-2","c":"","s":"Tons","k":"--tone-2","x":"#1f2021"},

diff --git a/catalogue/assets/labo.css b/catalogue/assets/labo.css
@@ -231,3 +231,10 @@
 .x-away[hidden] { display: none; } .x-away small { font-size: var(--text-micro); letter-spacing: var(--track-caps); color: var(--fg-soft); }
 .x-screen { position: relative; }
 @media (prefers-reduced-motion: reduce) { .x-live tr.is-touched > td::after, .x-num.is-fresh, .x-live tr.is-new > td, .x-pulse.is-beat::before { animation: none !important; } }
+
+/* Expérience 03, suite : l'ordre. Le rang, son mouvement (▲ 2) ou la place qui attend (→ 03). */
+.x-live td.rk { color: var(--fg-muted); font-size: var(--text-micro); letter-spacing: var(--track-caps); font-variant-numeric: tabular-nums; white-space: nowrap; width: 6.5rem; }
+.x-rk { display: inline-block; min-width: 2ch; } .x-mv { margin-left: var(--space-3); color: var(--fg-strong); }
+.x-mv.is-pending { color: var(--fg-soft); border-bottom: var(--hairline) dashed var(--fg-soft); }
+.x-atelier .x-steps--4 { grid-template-columns: repeat(4, minmax(0, 1fr)); column-gap: var(--space-5); }
+@media (max-width: 900px) { .x-atelier .x-steps--4 { grid-template-columns: minmax(0, 1fr); } }

diff --git a/docs/decisions.md b/docs/decisions.md
@@ -120,7 +120,8 @@ Les principes eux-mêmes sont dans `philosophie.md` ; ici, c'est leur histoire.
 | D-097 | Laboratoire, expérience 01 : rouge, orange, vert | en vigueur |
 | D-098 | Laboratoire, expérience 02 : douze cas de geste récompensé | en vigueur |
 | D-099 | Laboratoire : chaque atelier dans son propre écran | en vigueur |
-| D-100 | Laboratoire, expérience 03 : la donnée vivante | en vigueur |
+| D-100 | Laboratoire, expérience 03 : la donnée vivante | en vigueur, étendue par D-101 |
+| D-101 | Expérience 03 : l'ordre et le rythme | en vigueur |
 
 ---
 
@@ -943,3 +944,14 @@ Les principes eux-mêmes sont dans `philosophie.md` ; ici, c'est leur histoire.
 - **Hypothèses de départ, à vérifier** : la ligne fait trouver, la valeur fait comprendre ; l'écart est le meilleur compromis pour l'ancienne valeur ; les arrivées doivent attendre le lecteur.
 - **Particularité** : cette expérience n'enfreint aucune règle et n'ajoute aucune couleur ; elle pourrait entrer dans le système si elle convainc.
 - **État de l'art** : la cécité au changement est établie ; les guides demandent stabilité et changement compréhensible. Rien de trouvé qui tranche entre valeur et ligne.
+
+## D-101 — Expérience 03 : l'ordre et le rythme
+
+- **Date** : 2026-11-13 · **Statut** : en vigueur · **Demandée par** : le commanditaire · **Étend** : D-100
+- **Questions posées** : dans une liste classée, reclasse-t-on à la mise à jour ; comment le montrer ; que faire quand les mises à jour sont rapides et touchent plusieurs lignes à la fois.
+- **Reclassement, trois réponses à comparer** : immédiat (la ligne glisse aussitôt) ; différé (l'ordre affiché ne bouge pas, chaque ligne mal placée annonce son rang à venir « → 06 » en tireté, une ligne propose « Reclasser maintenant ») ; au calme (comme différé, mais la liste se range seule après deux secondes sans mise à jour, si le pointeur n'est pas sur elle).
+- **Montrer** : les lignes glissent ensemble, d'un seul mouvement ; le rang garde ensuite la trace du déplacement (« ▲ 2 ») jusqu'à ce que la ligne soit vue.
+- **Le rythme** : trois cadences (calme, vif, rafale de six lignes) et quatre garde-fous — l'affichage par lots (ce qui arrive en moins de deux secondes se montre en une fois), l'écart cumulé depuis la dernière vue, le soulignement limité à une fois par deux secondes et par ligne, un seul reclassement à la fois.
+- **Principe sous-jacent** : une mise à jour se fait en deux temps, le modèle puis l'écran. Les séparer permet de régler le rythme de l'écran sur celui de l'œil, non sur celui du flux.
+- **Hypothèse de départ** : « au calme » est le bon défaut ; rien ne doit bouger sous un pointeur.
+- **État de l'art** : la plainte « les lignes sautent » est partout chez les bibliothèques de tableaux, et la parade courante est de différer le tri. Rien de trouvé qui chiffre un rythme acceptable : les seuils de l'atelier sont des choix.
